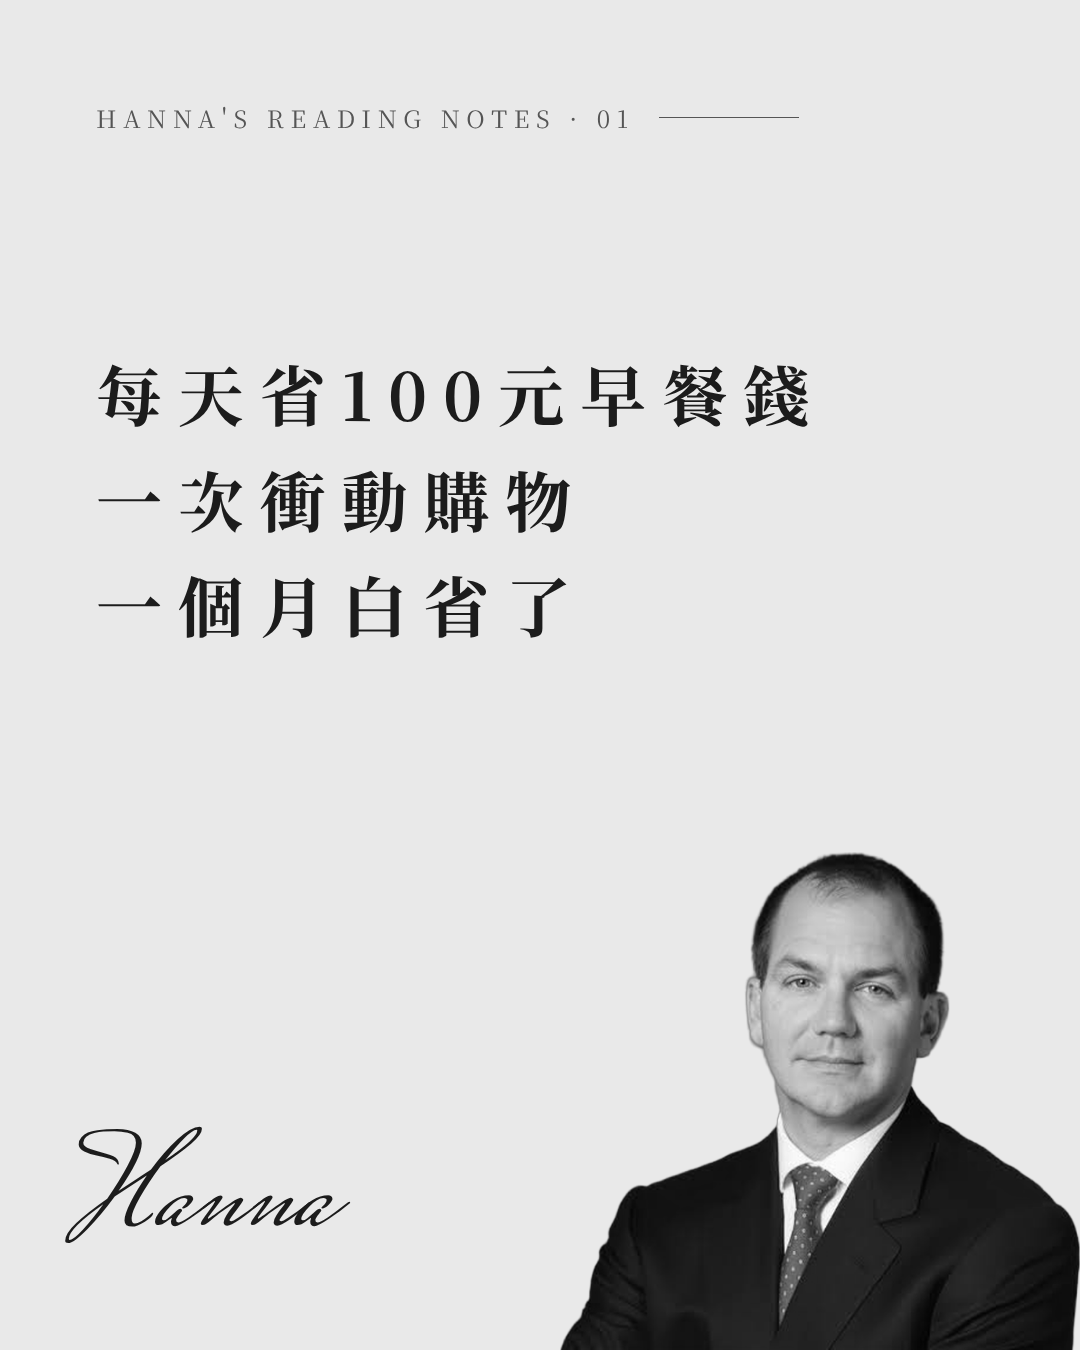
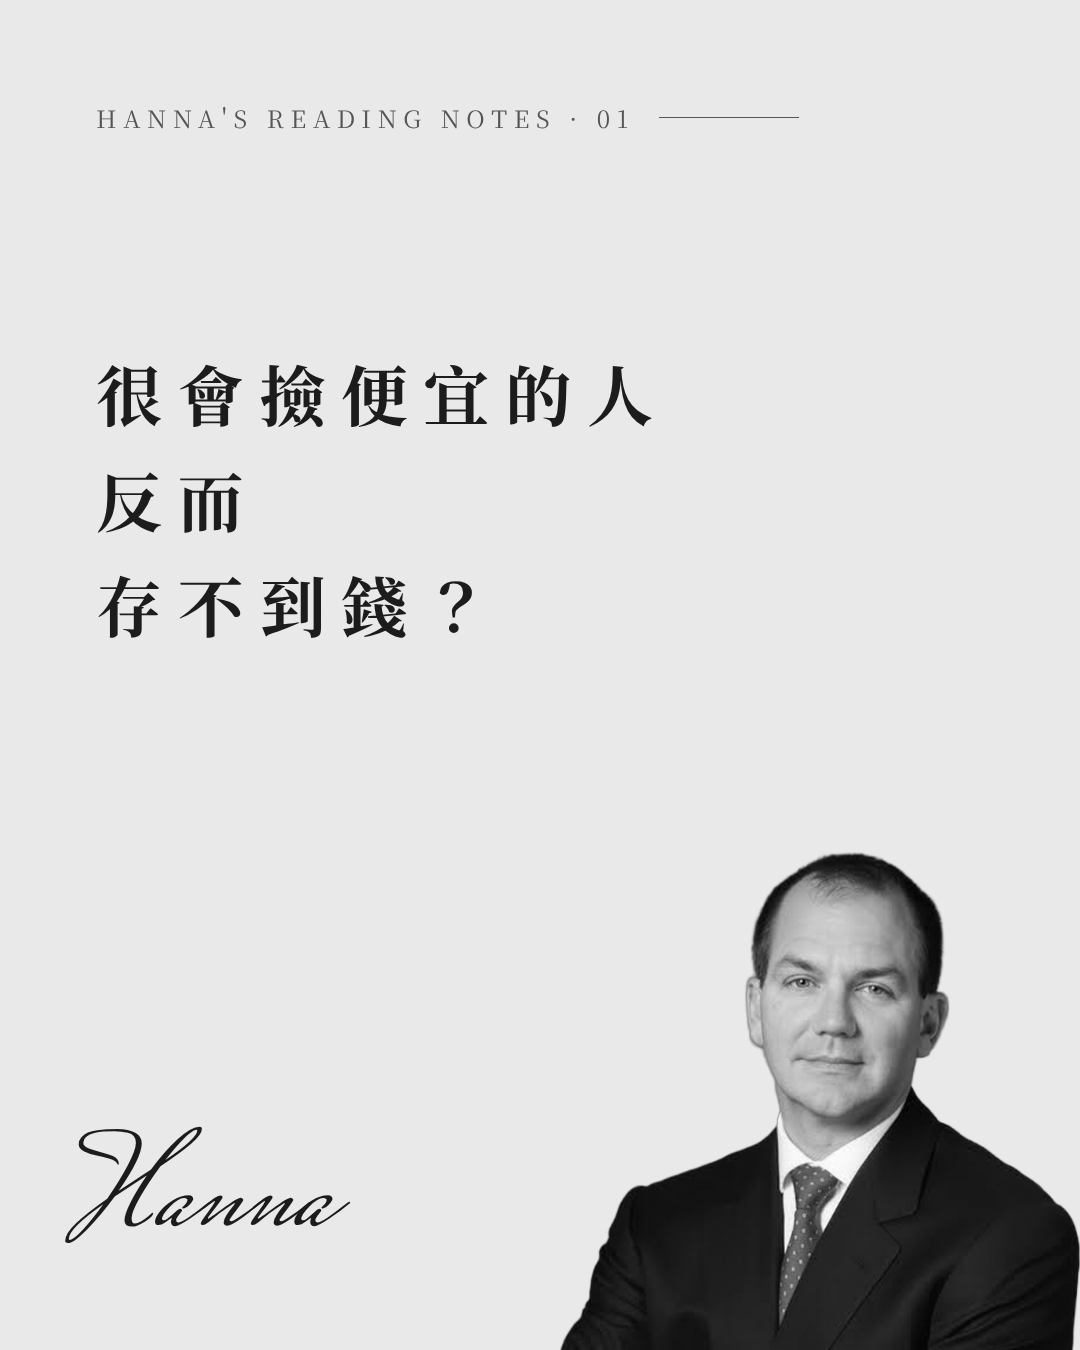
賺賠比輪播：封面改成反直覺開頭「很會撿便宜的人反而存不到錢」
Claude-Session: https://claude.ai/code/session_01AFjNkU8XspDCm6xvkskaQj

Changed region(s): [[0.0917, 0.2489, 0.7639, 0.4978], [0.4889, 0.4356, 0.5194, 0.4667]]

diff --git a/IP經營/輪播_賺賠比/slides.html b/IP經營/輪播_賺賠比/slides.html
@@ -53,17 +53,16 @@
 <body>
 
 <section class="slide cover">
-  <h1>每天省100元早餐錢<br>一次衝動購物<br>一個月白省了</h1>
+  <h1>很會撿便宜的人<br>反而<br>存不到錢？</h1>
   <div class="person"></div>
   <div class="sign">Hanna</div>
 </section>
 
 <section class="slide"><div class="body">
-  <p>每天省下 100 元早餐錢，<br>一個月省了 3,000。</p>
-  <p>很有成就感。</p>
-  <p>然後某天，一次衝動，<br>買了 1 萬元的東西。</p>
-  <p>整個月的努力，一次歸零，<br>還倒貼了 7,000。</p>
-  <p>省小錢很努力，<br>花大錢卻很隨便。</p>
+  <p>每次比價省 50，<br>搶到折扣省 100。</p>
+  <p>一年下來，省了 3,000。<br>「我真的很會省。」</p>
+  <p>然後一時衝動，<br>辦了 2 萬元的健身房年約，<br>一整年只去了 3 次。</p>
+  <p>省了很多次小錢，<br>一次大錢，就全賠回去，<br>還倒貼 1 萬多。</p>
 </div></section>
 
 <section class="slide"><div class="body">

diff --git a/IP經營/輪播貼文_賺賠比.md b/IP經營/輪播貼文_賺賠比.md
@@ -5,7 +5,7 @@
 封面人物照：使用者提供的照片，裁到頭和肩膀後去背（birefnet-portrait）
 
 依據數據調整：
-- 封面改用上班族的生活場景（省早餐錢、衝動購物），不用「交易」開頭
+- 封面用上班族生活場景加反直覺反差：「很會撿便宜的人，反而存不到錢？」，不用「交易」開頭
 - 第 2 張接生活場景（省早餐錢、一次衝動消費）
 - 名人故事壓在第 4、5 張
 - 第 6 張放可收藏的「賺的是虧的幾倍 vs 10 筆要贏幾筆」對照表，用白話說明，最後才帶出「賺賠比」這個詞
@@ -13,13 +13,17 @@
 
 ## 貼文說明文字（Caption）
 
-每天省 100 元早餐錢，一次衝動購物，一個月白省了。
+為什麼很會撿便宜的人，反而存不到錢？
 
-每天省下 100 元，一個月省了 3,000，很有成就感。
-然後某天一次衝動，買了 1 萬元的東西。
-整個月的努力一次歸零，還倒貼 7,000。
+每次比價省 50，搶到折扣省 100，
+一年下來省了 3,000。
+「我真的很會省。」
 
-省小錢很努力，花大錢卻很隨便。
+然後一時衝動，辦了 2 萬元的健身房年約，
+一整年只去了 3 次。
+
+省了很多次小錢，一次大錢就全賠回去，
+還倒貼 1 萬多。
 
 很多人買股票、買幣，也是這樣。
 
